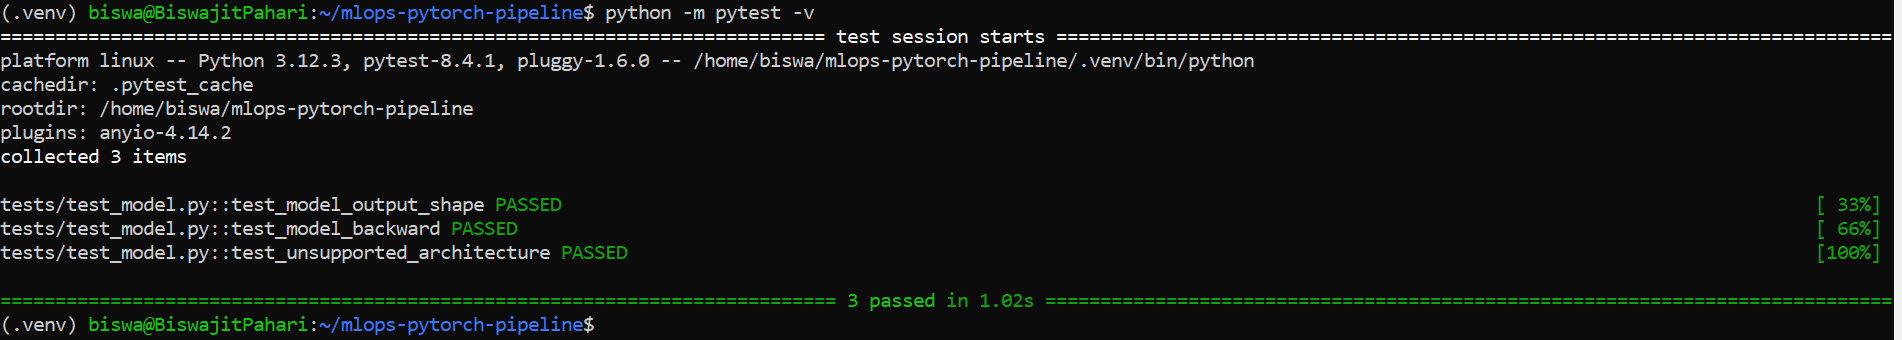
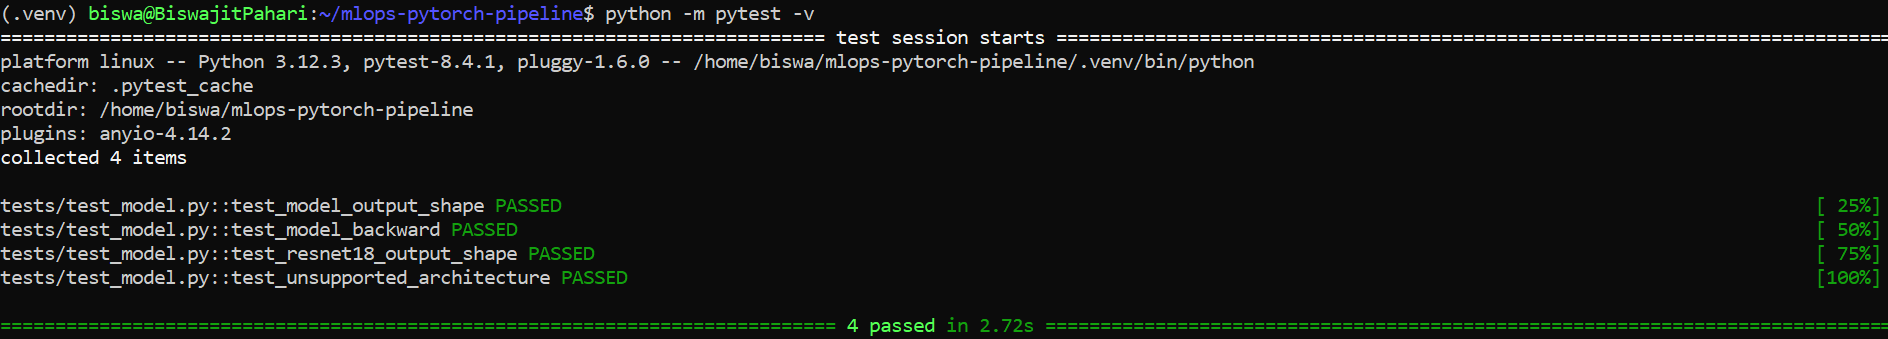
docs: update README with final validation results
Add complete local, Docker, and Kubernetes setup instructions; document final ResNet-18 results; and refresh prediction and automated-test evidence.

Changed region(s): [[0.0, 0.0, 1.0, 1.0], [0.0, 0.5605, 0.3438, 0.767], [0.0, 0.236, 0.25, 0.5015]]

diff --git a/README.md b/README.md
@@ -1,20 +1,35 @@
 # MLOps PyTorch Pipeline
 
-This project implements a PyTorch-based CIFAR-10 training pipeline, checkpoint management, FastAPI model serving, and automated model tests.
+An end-to-end CIFAR-10 image-classification pipeline using PyTorch, FastAPI, Docker and Kubernetes. It supports local and containerized training, checkpoint persistence, model serving, health checks, rolling updates and autoscaling.
 
-##Architecture
+## Architecture
 
-![Structured training logs](docs/images/architecture-diagram.png)
+![MLOps pipeline architecture](docs/images/architecture-diagram.png)
 
-## Model Training
-
-Run the training pipeline:
+## Local Setup
 
 ```bash
-python -m src.train
+git clone https://github.com/da25m557-biswajitpahari/mlops-pytorch-pipeline.git
+cd mlops-pytorch-pipeline
+
+python3 -m venv .venv
+source .venv/bin/activate
+
+pip install -r requirements/train.txt
+pip install -r requirements/serve.txt
+pip install -r requirements/dev.txt
 ```
 
-The training process produces structured JSON logs for every epoch.
+## Local Model Training
+
+Training parameters are defined in `configs/training_config.yaml`.
+
+```bash
+TRAINING_CONFIG=configs/training_config.yaml \
+python src/train.py
+```
+
+The training loop emits structured JSON metrics, supports early stopping and saves the best checkpoint as `checkpoints/classifier_v1.pt`.
 
 ### Structured Training Logs
 
@@ -22,59 +37,110 @@ The training process produces structured JSON logs for every epoch.
 
 ### Checkpoint Verification
 
-The best-performing model checkpoint is saved as:
-
-```text
-checkpoints/classifier_v1.pt
-```
-
-The checkpoint was successfully reloaded and verified.
-
 ![Checkpoint verification](docs/images/checkpoint-verification.png)
 
-## Model Serving
+## Local Model Serving
 
-Start the FastAPI application:
+For the locally trained SimpleCNN checkpoint:
 
 ```bash
 MODEL_PATH=checkpoints/classifier_v1.pt \
-uvicorn src.serve:app --host 127.0.0.1 --port 8080
+MODEL_ARCHITECTURE=simple_cnn \
+MODEL_NUM_CLASSES=10 \
+python -m uvicorn src.serve:app \
+--host 127.0.0.1 --port 8080
 ```
 
-Keep this terminal running while testing the API.
-
-### Health Endpoint
-
-Open another terminal and run:
+Health check:
 
 ```bash
-curl -i http://127.0.0.1:8080/health
+curl -s http://127.0.0.1:8080/health | python3 -m json.tool
+```
+
+Prediction:
+
+```bash
+curl -s -X POST http://127.0.0.1:8080/predict \
+-F "image=@test_image.png" | python3 -m json.tool
 ```
 
 ![API health check](docs/images/api-health.png)
 
-### Prediction Endpoint
+## Docker
 
-Run:
+Build and run training:
 
 ```bash
-curl -X POST \
-  http://127.0.0.1:8080/predict \
-  -F "image=@test_image.png"
+docker build -f docker/Dockerfile.train -t mlops-train:v1 .
+
+docker run --rm \
+-v $(pwd)/data:/app/data \
+-v $(pwd)/checkpoints:/app/checkpoints \
+mlops-train:v1
 ```
 
-The response contains the predicted class, confidence, and probabilities for all 10 CIFAR-10 classes.
+Build and run serving:
 
-![API prediction result](docs/images/api-prediction.png)
+```bash
+docker build -f docker/Dockerfile.serve -t mlops-serve:v1 .
+
+docker run --rm -p 8080:8080 \
+-v $(pwd)/checkpoints:/app/checkpoints \
+mlops-serve:v1
+```
+
+## Kubernetes with Minikube
+
+Build and load the final images:
+
+```bash
+docker build -f docker/Dockerfile.train -t mlops-train:v2 .
+docker build -f docker/Dockerfile.serve -t mlops-serve:v2 .
+
+minikube image load mlops-train:v2
+minikube image load mlops-serve:v2
+```
+
+Deploy training:
+
+```bash
+kubectl apply -f k8s/namespace.yaml
+kubectl apply -f k8s/pvc.yaml
+kubectl apply -f k8s/configmap.yaml
+kubectl apply -f k8s/training-job.yaml
+
+kubectl logs -f job/cifar10-training -n ml-training
+```
+
+Deploy serving after training completes:
+
+```bash
+kubectl apply -f k8s/serving-deployment.yaml
+kubectl apply -f k8s/serving-service.yaml
+kubectl apply -f k8s/hpa.yaml
+
+kubectl get pods -n ml-training
+kubectl port-forward svc/model-serving 8080:80 -n ml-training
+```
+
+The Kubernetes ResNet-18 run completed 10 epochs with:
+
+- Training accuracy: **89.53%**
+- Validation accuracy: **87.04%**
+- Best validation loss: **0.3905**
+
+### Final API Validation
+
+The final ResNet-18 checkpoint was served through Kubernetes and successfully returned class probabilities for the test image.
+
+![Final Kubernetes API prediction](docs/images/api-prediction.png)
 
 ## Testing
-
-Run the automated tests:
 
 ```bash
 python -m pytest -v
 ```
 
-All three automated PyTorch model tests should pass.
+All four automated PyTorch model tests should pass.
 
 ![PyTorch automated tests](docs/images/pytorch-tests.png)
